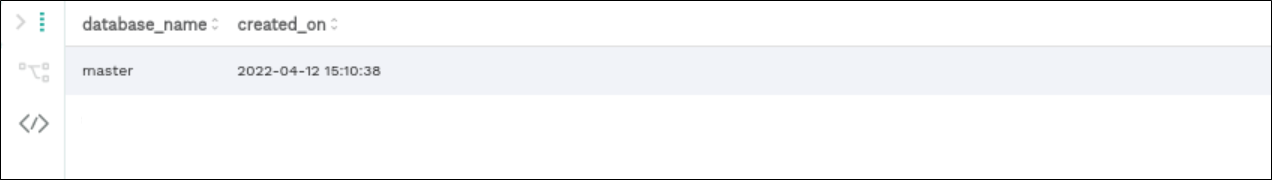
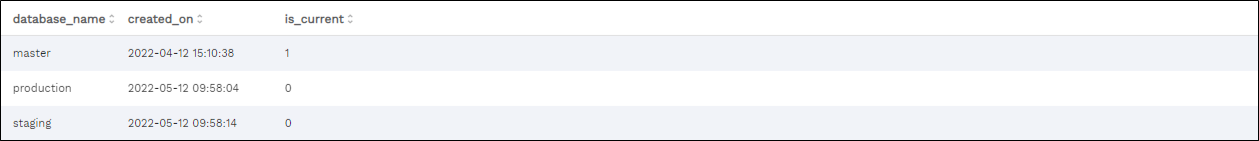
Updated DESCRIBE Functions

diff --git a/reference/sql/sql_statements/ddl_commands/describe_tables.rst b/reference/sql/sql_statements/ddl_commands/describe_tables.rst
@@ -3,7 +3,7 @@
 *****************
 DESCRIBE TABLES
 *****************
-The ``DESCRIBE TABLES`` command lets you list information about all tables in your database, including information about storage and deleted data. You can define the ``DESCRIBE TABLES`` command as one of the following:
+The ``DESCRIBE TABLES`` command lets you list information about tables in your database. You can define the ``DESCRIBE TABLES`` command as one of the following:
 
 * **Internal** - list information regarding SQream native tables residing in the defined SQream database storage area.
 * **External** - list information about tables residing as files external to the SQream database.
@@ -41,7 +41,7 @@ The following parameters can be used with the ``DESCRIBE TABLES`` command:
      - Information belonging to either an external or internal table.
      - Text	
 	 
-Examples
+Example
 ==============
 The following is an example of an **internal** ``DESCRIBE TABLES`` command:
 
@@ -92,6 +92,10 @@ Using the **internal** ``DESCRIBE_TABLES`` command generates the following outpu
      - Integer
      - 6
 
+The following is an example of the generated output in Studio for the **internal** ``DESCRIBE TABLES`` command:
+
+.. image:: /_static/images/describe_tables_internal.png
+
 Using the **external** ``DESCRIBE_TABLES`` command generates the following output:
 
 .. list-table:: 
@@ -126,14 +130,6 @@ Using the **external** ``DESCRIBE_TABLES`` command generates the following outpu
      - Displays the table's creation date and timestamp.
      - Date
      - 2022-05-02 15:25:57	 
-
-Examples
-===========
-The following is an example of the generated output in Studio for the **internal** ``DESCRIBE TABLES`` command:
-
-.. image:: /_static/images/describe_tables_internal.png
-
-**Comment** - *Do we currently support rechunker_ignore? Compare screenshot with the internal table above.*
 
 The following is an example of the generated output for the **external** ``DESCRIBE TABLES`` command:
 

diff --git a/reference/sql/sql_statements/ddl_commands/describe_databases.rst b/reference/sql/sql_statements/ddl_commands/describe_databases.rst
@@ -3,11 +3,11 @@
 *****************
 DESCRIBE DATABASES
 *****************
-The ``DESCRIBE DATABASES`` command lets you list information about the specified database in your cluster.
+The ``DESCRIBE DATABASES`` command lets you list information about the database in your cluster.
 
 Syntax
 ==========
-The following is the correct syntax for the ``DESCRIBE DATABASES`` command:
+The following is the syntax for the ``DESCRIBE DATABASES`` command:
 
 .. code-block:: postgres
 
@@ -17,10 +17,10 @@ Parameters
 ============
 The ``DESCRIBE DATABASES`` command has no parameters.
 
-Examples
+Example
 ==============
 The ``DESCRIBE_DATABASES`` command has no parameters.
- 
+
 Output
 =============
 Using the ``DESCRIBE DATABASES`` command generates the following output:
@@ -41,9 +41,11 @@ Using the ``DESCRIBE DATABASES`` command generates the following output:
      - Displays the date and time when the database was created.
      - Date
      - 2022-04-12 15:10:38
+   * - ``is_current``
+     - Displays the database that you are currently connected to.
+     - Boolean
+     - 1
 	     
-Example
-===========
 The following is an example of the generated output in Studio:
 
 .. image:: /_static/images/describe_databases.png

diff --git a/reference/sql/sql_statements/ddl_commands/describe_sessions.rst b/reference/sql/sql_statements/ddl_commands/describe_sessions.rst
@@ -11,7 +11,7 @@ The following is the syntax for the ``DESCRIBE SESSIONS`` command:
 
 .. code-block:: postgres
 
-   DESCRIBE SESSIONS <user_name>
+   DESCRIBE SESSIONS [<user_name>]
 
 Parameters
 ============
@@ -26,11 +26,11 @@ The following parameters can be used with the ``DESCRIBE SESSIONS`` command:
      - Description
      - Type
    * - ``SESSIONS``
-     - ``user_name``
+     - *(Optional)* ``user_name``
      - The name of the user on the session.
      - Text
 	 
-Examples
+Example
 ==============
 The following is an example of the ``DESCRIBE SESSIONS`` command:
 
@@ -51,7 +51,7 @@ Using the ``DESCRIBE SESSIONS`` command generates the following output:
      - Type
      - Example
    * - ``start_time``
-     - Displays the name of the database.
+     - Displays the start time of the session.
      - Date
      - 02-05-2022 15:23:48
    * - ``database``
@@ -71,8 +71,6 @@ Using the ``DESCRIBE SESSIONS`` command generates the following output:
      - Text
      - 64935a0b-7e9d-40b0-828c-6d4f196d4830
 	 
-Example
-===================
 The following is an example of the generated output in Studio:
 
 .. image:: /_static/images/describe_sessions.png

diff --git a/reference/sql/sql_statements/ddl_commands/describe_session_queries.rst b/reference/sql/sql_statements/ddl_commands/describe_session_queries.rst
@@ -30,7 +30,9 @@ The following parameters can be used with the ``DESCRIBE SESSION QUERIES`` comma
      - The session ID of the query.
      - Text
 	 
-Examples
+.. note:: The ``SESSION_ID`` parameter is optional. If you do not specify a session ID, SQream uses the session ID of the current session.
+	 
+Example
 ==============
 The following is an example of the ``DESCRIBE SESSIONS`` command:
 
@@ -79,15 +81,11 @@ Using the ``DESCRIBE SESSIONS`` command generates the following output:
      - Type
      - SQream JDBC v0.1.33 
 
-Example
-===================
 The following is an example of the generated output in Studio:
+  
+.. image:: /_static/images/describe_session_queries.png
 
-.. code-block:: postgres
-
-   query_id,query_status,query_type,sql_text,session_id,start_time,client_info
-
-**Comment** - *I wasn't able to generate a table in Studio. Please assist.*
+**Comment** - *Need higher quality image. Please speak with me and I'll show you how to get one.*
 
 Permissions
 =============

diff --git a/reference/sql/sql_statements/ddl_commands/describe_tables_extended.rst b/reference/sql/sql_statements/ddl_commands/describe_tables_extended.rst
@@ -9,7 +9,7 @@ The ``DESCRIBE TABLES EXTENDED`` command lets you list all the tables in your da
 
 Syntax
 ==========
-The following is the correct syntax for the ``DESCRIBE TABLES EXTENDED`` command:
+The following is the syntax for the ``DESCRIBE TABLES EXTENDED`` command:
 
 .. code-block:: postgres
 
@@ -33,7 +33,7 @@ The following parameters can be used with the ``DESCRIBE TABLES EXTENDED`` comma
      - The name of the table.
      - Text	 
 	 
-Examples
+Example
 ==============
 The following is an example of an **internal** ``DESCRIBE TABLES EXTENDED`` command:
 
@@ -125,8 +125,6 @@ master,3,public,t4,0,2022-05-02 15:25:57
      - Date
      - 2022-05-02 15:25:57	 
 
-Examples
-===========
 The following is an example of the generated output for the **internal** ``DESCRIBE TABLES EXTENDED`` command:
 
 .. code-block:: postgres

diff --git a/reference/sql/sql_statements/ddl_commands/describe_columns.rst b/reference/sql/sql_statements/ddl_commands/describe_columns.rst
@@ -3,7 +3,7 @@
 *****************
 DESCRIBE COLUMNS
 *****************
-The ``DESCRIBE COLUMNS`` command lets you list information about all columns in an internal or external table.
+The ``DESCRIBE COLUMNS`` command lets you list information about columns in an internal or external table.
 
 Syntax
 ==========
@@ -31,7 +31,7 @@ The following parameters can be used with the ``DESCRIBE COLUMNS`` command:
      - Text
    * - ``SCHEMA``
      - ``schema_name``
-     - The name of the table.
+     - The name of the schema.
      - Text
    * - ``TABLE``
      - ``table_name``

diff --git a/reference/sql/sql_statements/ddl_commands/describe_user_functions.rst b/reference/sql/sql_statements/ddl_commands/describe_user_functions.rst
@@ -30,7 +30,7 @@ The following parameters can be used with the ``DESCRIBE USER FUNCTIONS`` comman
      - The name of the database containing user-defined functions.
      - Text
 	 
-Examples
+Example
 ==============
 The following is an example of the ``DESCRIBE USER FUNCTIONS`` command:
 
@@ -62,9 +62,7 @@ Using the ``DESCRIBE USER FUNCTIONS`` command generates the following output:
      - Displays the name of the function.
      - Text
      - my_upper
-    
-Example
-===========
+
 The following is an example of the generated output:
 
 .. code-block:: postgres

diff --git a/reference/sql/sql_statements/ddl_commands/describe_locks.rst b/reference/sql/sql_statements/ddl_commands/describe_locks.rst
@@ -7,7 +7,7 @@ The ``DESCRIBE LOCKS`` command replaces the `SHOW_LOCKS <https://docs.sqream.com
 
 Syntax
 ==========
-The following is the correct syntax:
+The following is the syntax for the ``DESCRIBE LOCKS`` command::
 
 .. code-block:: postgres
 
@@ -30,7 +30,7 @@ The following parameters can be used when switching databases with the **DESCRIB
      - The session ID of the user.
      - (Optional) If blank, use the current session.	 
 	 
-Examples
+Example
 ==============
 The following is an example of the **DESCRIBE SESSIONS** command:
 

diff --git a/reference/sql/sql_statements/ddl_commands/describe_schemas.rst b/reference/sql/sql_statements/ddl_commands/describe_schemas.rst
@@ -30,7 +30,7 @@ The following parameters can be used with the ``DESCRIBE SCHEMAS`` command:
      - The name of the database.
      - Text
 	 
-Examples
+Example
 ==============
 The following is an example of the ``DESCRIBE SCHEMAS`` command:
 
@@ -63,8 +63,6 @@ Using the ``DESCRIBE SCHEMAS`` command generates the following output:
      - Text
      - sqream
      
-Example
-===========
 The following is an example of the generated output in Studio:
 
 .. image:: /_static/images/describe_schemas.png

diff --git a/reference/sql/sql_statements/ddl_commands/create_table.rst b/reference/sql/sql_statements/ddl_commands/create_table.rst
@@ -3,14 +3,11 @@
 *****************
 CREATE TABLE
 *****************
-
 The ``CREATE TABLE`` statement is used to create a new table in an existing database.
 
 .. tip:: 
    * To create a table based on the result of a select query, see :ref:`CREATE TABLE AS <create_table_as>`.
    * To create a table based on files like Parquet and ORC, see :ref:`CREATE FOREIGN TABLE <create_foreign_table>`
-
-
 
 Syntax
 ==========

diff --git a/reference/sql/sql_statements/ddl_commands/describe_query.rst b/reference/sql/sql_statements/ddl_commands/describe_query.rst
@@ -107,8 +107,6 @@ Using the ``DESCRIBE QUERY`` command generates the following output:
      - Text
      - public.t1
 	 
-Example
-===================
 The following is an example of the generated output in Studio:
 
 .. code-block:: postgres

diff --git a/feature_guides/data_encryption_syntax.rst b/feature_guides/data_encryption_syntax.rst
@@ -3,7 +3,7 @@
 ***********************
 Syntax
 ***********************
-The following is the correct syntax for encrypting a new table:
+The following is the syntax for encrypting a new table:
 
 .. code-block:: console
      
